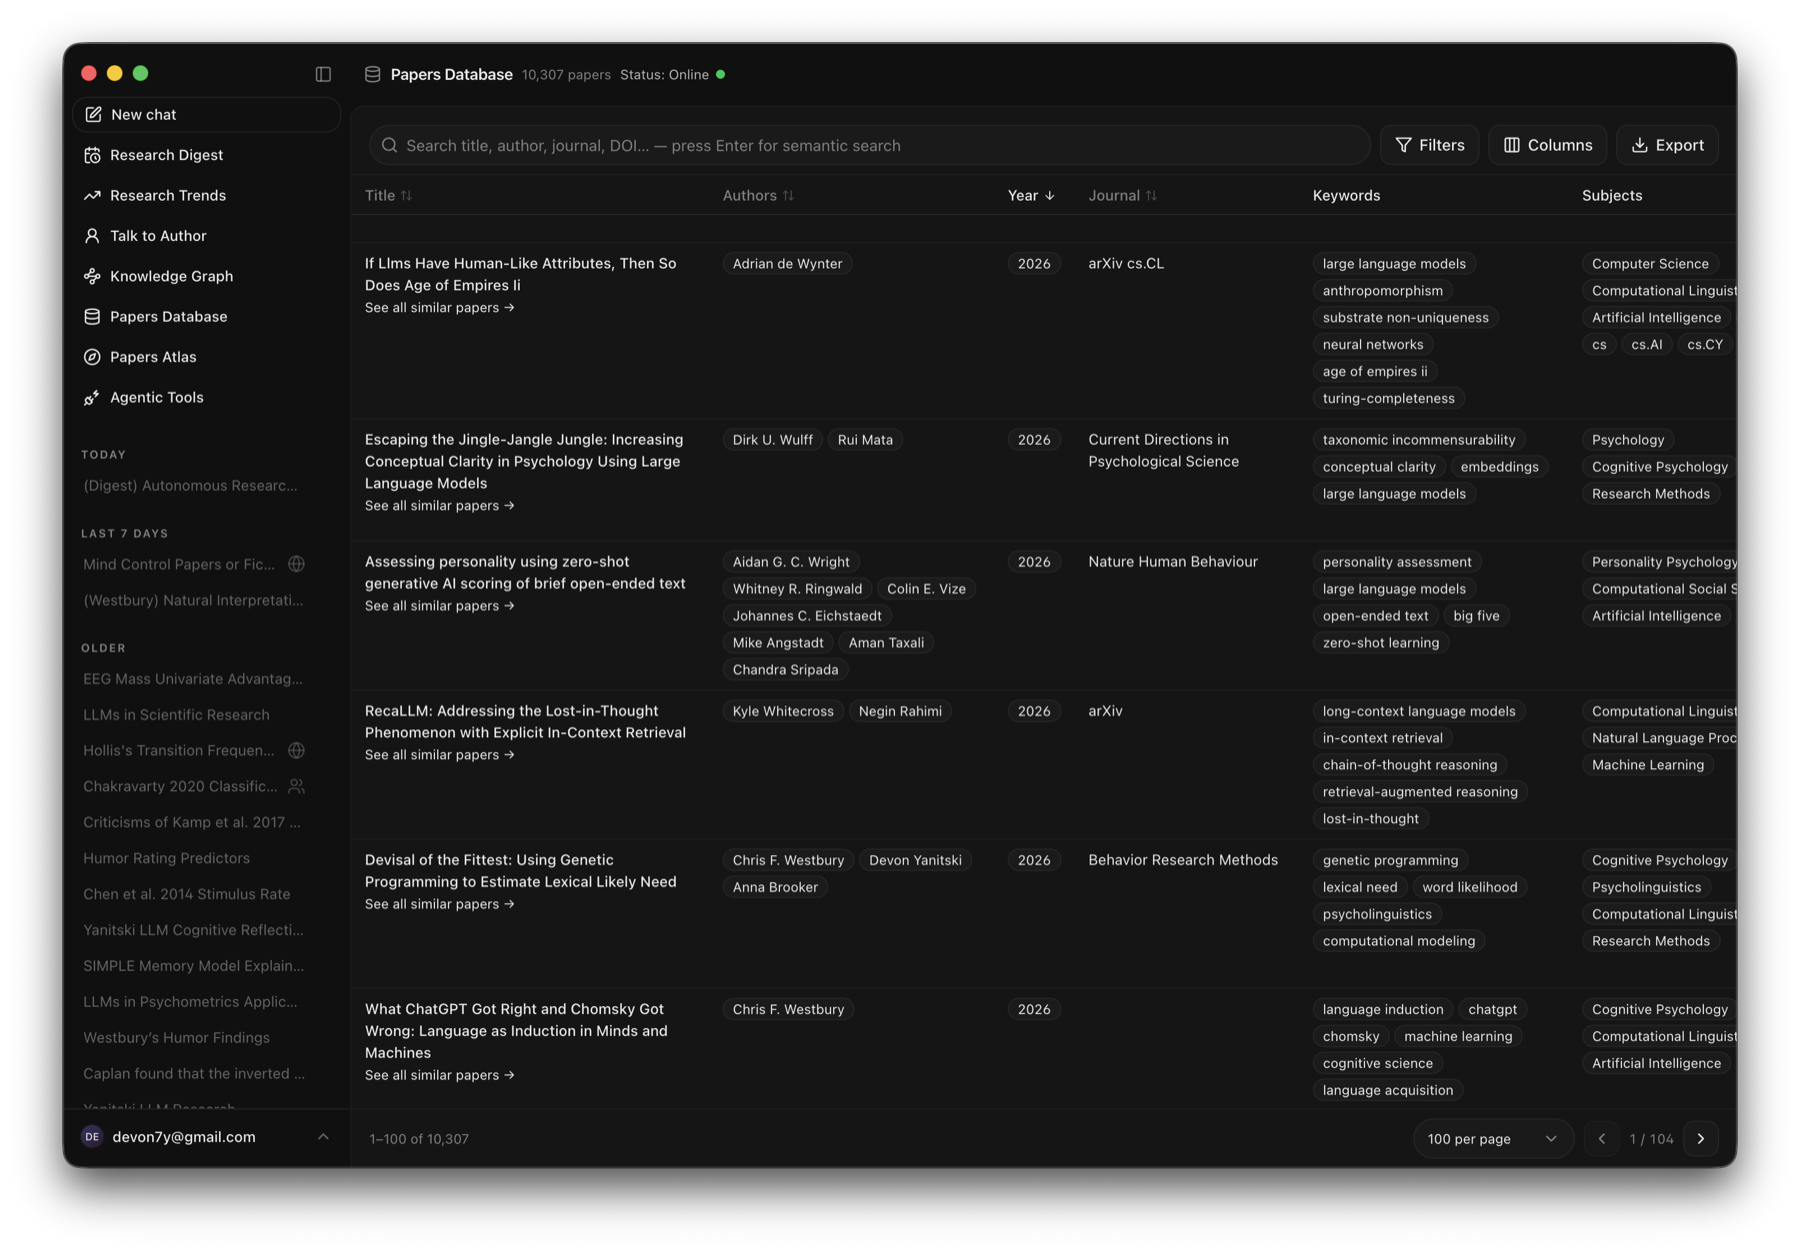
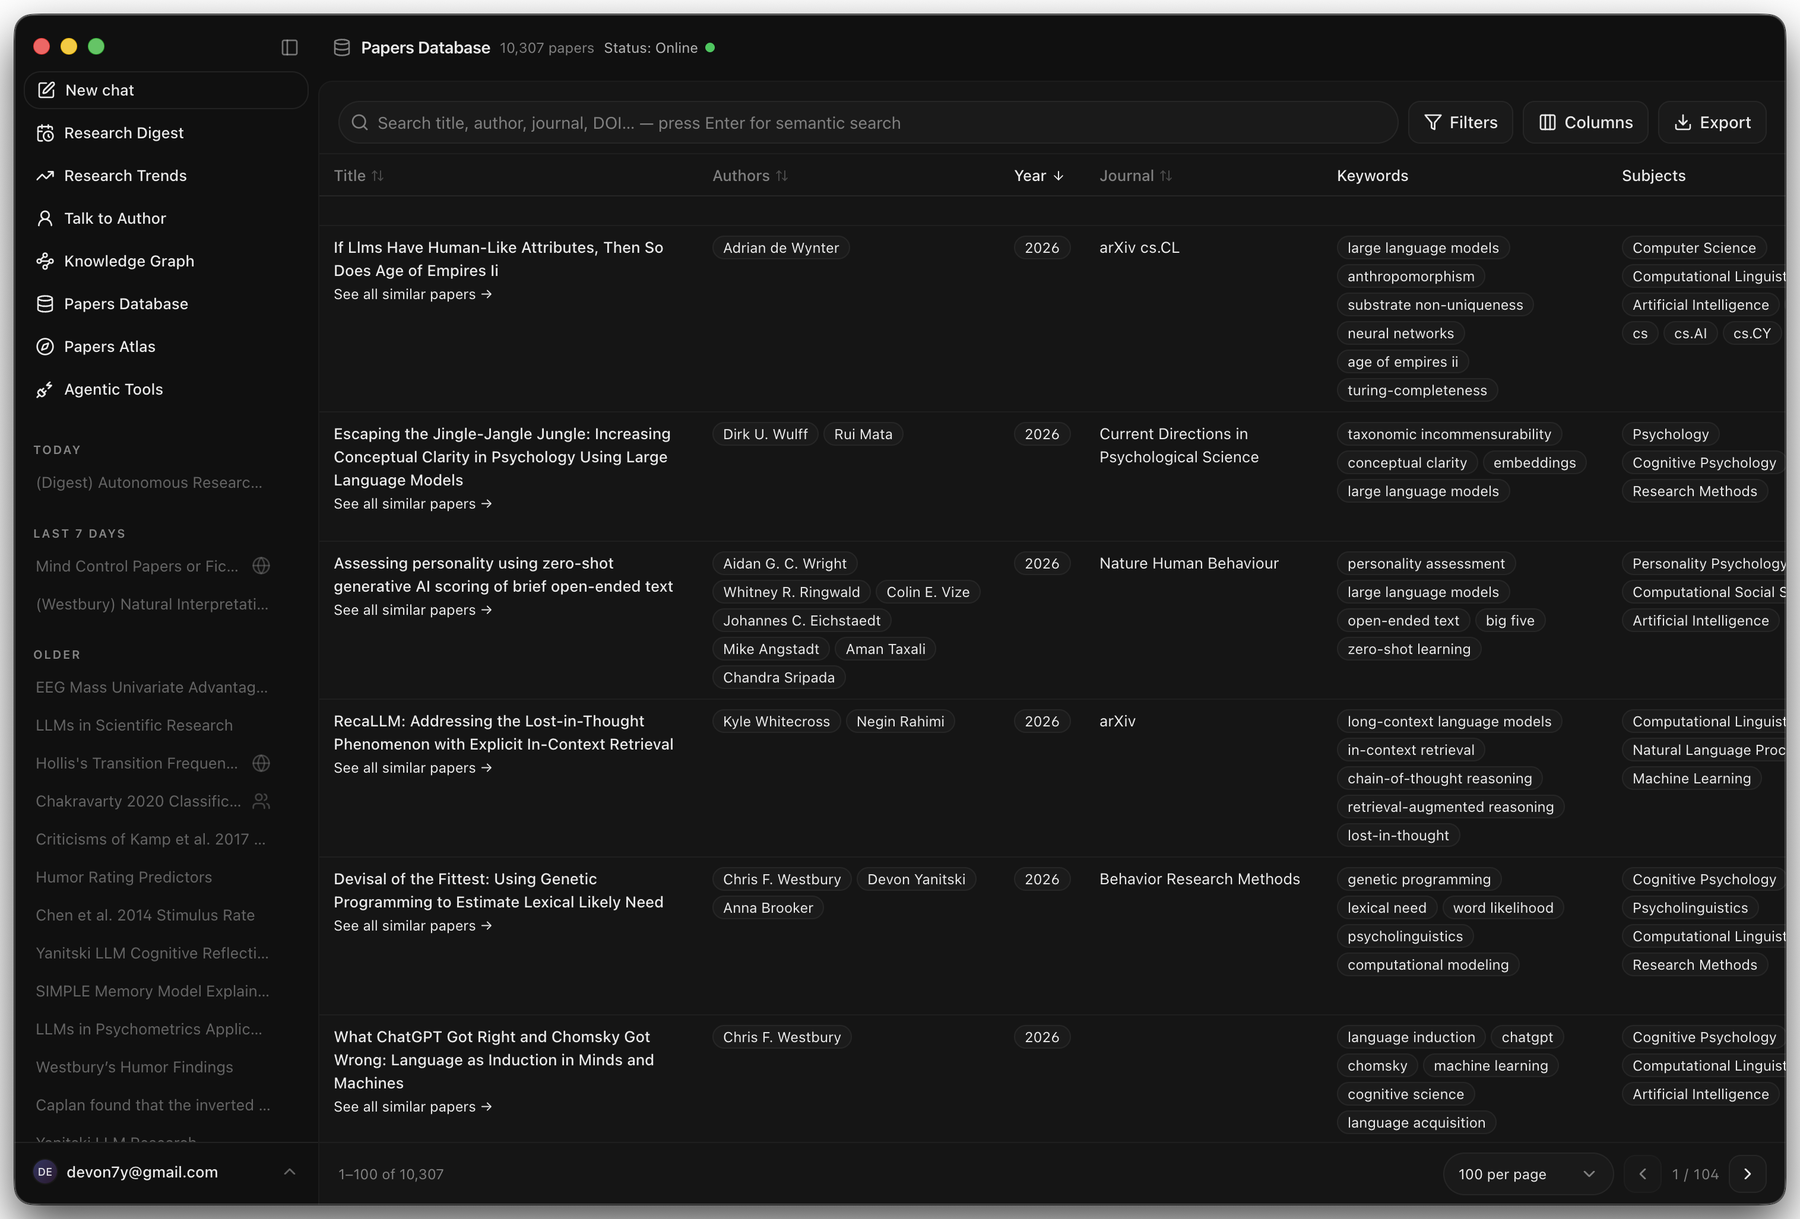
docs: crop the screenshots and keep every one a PNG
The three atlas screenshots had been converted to JPEG for size. macOS
window captures carry a transparent margin with a drop shadow, and JPEG
has no alpha, so that margin flattened to white and framed each image in
a white border. All nine are PNG again.

Each is also cropped to the window: the opaque window rectangle plus 24
source pixels of shadow, which removes roughly 200 pixels of empty canvas
on every side while keeping the rounded corners and the shadow intact.

diff --git a/README.md b/README.md
@@ -74,17 +74,17 @@ The atlas lays the whole corpus out in three dimensions. Every chunk of every pa
 
 The landscape view reads as terrain. Height counts papers, so a mountain is ground that many papers crowd onto and a flat empty region is ground nobody has covered. Colour is publication year.
 
-![Papers Atlas, landscape view](docs/images/papers_atlas_landscape.jpg)
+![Papers Atlas, landscape view](docs/images/papers_atlas_landscape.png)
 
 The galaxy view shows the raw semantic space. Small stars are chunks, and a brighter star has more connections in the knowledge graph. The spiked stars are knowledge-graph entities, placed at the centre of the chunks that mention them. Constellation lines join one entity's chunks, and a fainter web joins entities the graph relates.
 
-![Papers Atlas, galaxy view](docs/images/papers_atlas_galaxy.jpg)
+![Papers Atlas, galaxy view](docs/images/papers_atlas_galaxy.png)
 
 Region names are taken from the corpus rather than written by hand. Each summit is named for the paper or graph concept that dominates it.
 
 A lens filters the world by metadata. Matching papers pulse gold and everything else steps back. An author lens draws that author's trail through the map in publication order, from first paper to last.
 
-![Papers Atlas with an author lens applied](docs/images/papers_atlas_author.jpg)
+![Papers Atlas with an author lens applied](docs/images/papers_atlas_author.png)
 
 The search bar accepts plain queries, the shortcuts `@name`, `journal:`, `kw:` and `year:1990..2005`, and a question ending in a question mark, which asks the corpus from inside the world.
 
